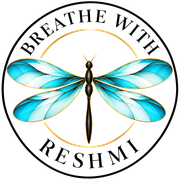
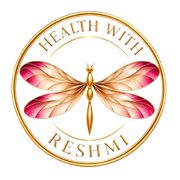
update sxitemap

diff --git a/frontend/src/components/ClientTransformationShowcase.jsx b/frontend/src/components/ClientTransformationShowcase.jsx
@@ -57,51 +57,38 @@ export default function ClientTransformationShowcase() {
   const audioTestimonials = [
     {
       id: 'voice-1',
-      condition: 'Gut Relief & Chronic Acidity',
+      condition: 'Acidity & Digestion Healing',
       file: '/assets/audio/client-voice-1.mp4',
-      quote: '"Reshmi mam ke guidance se meri 3 saal purani acidity aur digestion issue completely heal ho gaya."',
-
     },
     {
       id: 'voice-2',
-      condition: 'Thyroid, Energy & Sleep Quality',
+      condition: 'Sustainable Fat Loss Journey',
       file: '/assets/audio/client-voice-2.mp4',
-      quote: '"Afternoon exhaustion aur brain fog hat gaya. Main ab bina kisi caffeine ya medicines ke active rehti hu."',
-
     },
     {
       id: 'voice-3',
-      condition: 'Sustained Weight & Metabolic Reversal',
+      condition: 'Thyroid & Blood-Work Driven Nutrition',
       file: '/assets/audio/client-voice-3.mp4',
-      quote: '"Bina kisi crash diet ya starvation ke mera weight naturally reduce hua aur inch loss bhi bohot acha mila."',
-
     },
     {
       id: 'voice-4',
-      condition: 'Anxiety & Breathwork Recovery',
+      condition: 'Skin & Acne Transformation',
       file: '/assets/audio/client-voice-4.mp4',
-      quote: '"Oxygen Advantage breathing drills ne meri breathing pattern aur raat ki sleep ko 100% stable kar diya."',
-
     },
     {
       id: 'voice-5',
-
-      condition: 'Gut Relief & Bloating Reversal',
+      condition: 'Diabetes & Metabolic Recovery',
       file: '/assets/audio/client-voice-5.mp3',
-      quote: '"Bloating aur post-meal heaviness me remarkable improvement aaya within few weeks of protocol."',
-
     },
     {
       id: 'voice-8',
-      condition: 'Metabolic Vitality & Inch Loss',
+      condition: 'Weight Loss & Inch Loss Protocol',
       file: '/assets/audio/client-voice-8.mp3',
-      quote: '"Metabolism restore hua aur bina extreme restriction ke sustainable inch loss mila."',
     },
     {
       id: 'voice-9',
-      condition: 'Sleep Quality & Stress Modulation',
+      condition: 'Nutrition Consultation & Motivation',
       file: '/assets/audio/client-voice-9.mp3',
-      quote: '"Oxygen Advantage breathwork aur sleep hygiene se deep restful sleep wapas aayi."',
     }
   ];
 
@@ -326,11 +313,8 @@ export default function ClientTransformationShowcase() {
                             color: 'var(--emerald-deep)'
                           }}
                         >
-                          {item.clientName}
-                        </h4>
-                        <span style={{ fontSize: '0.8rem', color: '#008B82', fontWeight: 700 }}>
                           {item.condition}
-                        </span>
+                        </h4>
                       </div>
 
                       {/* Animated Sound Wave Indicator */}
@@ -358,20 +342,6 @@ export default function ClientTransformationShowcase() {
                       )}
                     </div>
 
-                    {/* Client Quote Snippet */}
-                    <p
-                      style={{
-                        fontSize: '0.88rem',
-                        color: 'var(--text-primary)',
-                        lineHeight: 1.55,
-                        margin: '0 0 18px',
-                        fontStyle: 'italic',
-                        flexGrow: 1
-                      }}
-                    >
-                      {item.quote}
-                    </p>
-
                     {/* Audio Controls Bar */}
                     <div
                       style={{
@@ -381,7 +351,8 @@ export default function ClientTransformationShowcase() {
                         background: '#FAF8F5',
                         padding: '10px 14px',
                         borderRadius: '14px',
-                        border: '1px solid var(--border-subtle)'
+                        border: '1px solid var(--border-subtle)',
+                        marginTop: 'auto'
                       }}
                     >
                       <button

diff --git a/frontend/src/pages/VideosPage.jsx b/frontend/src/pages/VideosPage.jsx
@@ -403,7 +403,7 @@ export default function VideosPage() {
               fontFamily: 'var(--font-serif)',
               fontWeight: 800
             }}>
-              Masterclasses (Full Sessions)
+              Full Sessions
             </h2>
 
             <div className="masterclasses-grid">
@@ -607,6 +607,51 @@ export default function VideosPage() {
                   </div>
                 </div>
               ))}
+
+              {/* YouTube Arrow — grid cell, appears in the empty space next to last short */}
+              <div style={{
+                display: 'flex',
+                alignItems: 'center',
+                justifyContent: 'center',
+              }}>
+                <a
+                  href="https://youtube.com/@healthwithreshmi?si=J_-3JErcDWbGw6gj"
+                  target="_blank"
+                  rel="noopener noreferrer"
+                  title="More Videos on YouTube"
+                  style={{
+                    display: 'inline-flex',
+                    alignItems: 'center',
+                    justifyContent: 'center',
+                    width: '64px',
+                    height: '64px',
+                    borderRadius: '50%',
+                    border: '3px solid #FF0000',
+                    background: '#FFFFFF',
+                    textDecoration: 'none',
+                    boxShadow: '0 4px 20px rgba(255, 0, 0, 0.20)',
+                    transition: 'transform 0.22s cubic-bezier(0.16,1,0.3,1), background 0.22s ease',
+                    flexShrink: 0
+                  }}
+                  onMouseEnter={e => {
+                    e.currentTarget.style.transform = 'scale(1.14)';
+                    e.currentTarget.style.background = '#FF0000';
+                    e.currentTarget.querySelector('svg').style.stroke = '#FFFFFF';
+                  }}
+                  onMouseLeave={e => {
+                    e.currentTarget.style.transform = 'scale(1)';
+                    e.currentTarget.style.background = '#FFFFFF';
+                    e.currentTarget.querySelector('svg').style.stroke = '#FF0000';
+                  }}
+                >
+                  <svg width="26" height="26" viewBox="0 0 24 24" fill="none"
+                    stroke="#FF0000" strokeWidth="2.5" strokeLinecap="round" strokeLinejoin="round"
+                    style={{ transition: 'stroke 0.22s ease' }}>
+                    <line x1="5" y1="12" x2="19" y2="12" />
+                    <polyline points="12 5 19 12 12 19" />
+                  </svg>
+                </a>
+              </div>
             </div>
           </div>
         )}

diff --git a/frontend/src/pages/AssessmentPage.jsx b/frontend/src/pages/AssessmentPage.jsx
@@ -278,19 +278,34 @@ export default function AssessmentPage() {
   const [answers, setAnswers] = useState({});
   const [results, setResults] = useState(null);
 
-  // Lead Info State
-  const [leadInfo, setLeadInfo] = useState(() => {
+  // Lead Info State — always starts as null so gate form is shown on every visit
+  const [leadInfo, setLeadInfo] = useState(null);
+
+  // Pre-Assessment Gate Form state — pre-fill from localStorage if available
+  const [leadName, setLeadName] = useState(() => {
+    if (user?.name) return user.name;
     try {
       const stored = localStorage.getItem('reshmi_assessment_lead') || localStorage.getItem('reshmi_user_lead');
-      if (stored) return JSON.parse(stored);
-    } catch (e) { }
-    return null;
+      if (stored) return JSON.parse(stored)?.name || '';
+    } catch (e) {}
+    return '';
   });
-
-  // Pre-Assessment Gate Form state
-  const [leadName, setLeadName] = useState(user?.name || '');
-  const [leadPhone, setLeadPhone] = useState(user?.phone || '');
-  const [leadEmail, setLeadEmail] = useState(user?.email || '');
+  const [leadPhone, setLeadPhone] = useState(() => {
+    if (user?.phone) return user.phone;
+    try {
+      const stored = localStorage.getItem('reshmi_assessment_lead') || localStorage.getItem('reshmi_user_lead');
+      if (stored) return JSON.parse(stored)?.phone || '';
+    } catch (e) {}
+    return '';
+  });
+  const [leadEmail, setLeadEmail] = useState(() => {
+    if (user?.email) return user.email;
+    try {
+      const stored = localStorage.getItem('reshmi_assessment_lead') || localStorage.getItem('reshmi_user_lead');
+      if (stored) return JSON.parse(stored)?.email || '';
+    } catch (e) {}
+    return '';
+  });
   const [leadError, setLeadError] = useState('');
   const [leadSaving, setLeadSaving] = useState(false);
 
@@ -1600,9 +1615,6 @@ ${websiteUrl}`;
                     <span>📥</span>
                     <span>Direct Download Scorecard</span>
                   </button>
-                  <span style={{ fontSize: '0.8rem', color: '#64748B' }}>
-                    Instant offline report file &bull; No print dialog
-                  </span>
                 </div>
               </div>
 

diff --git a/frontend/src/pages/AboutPage.jsx b/frontend/src/pages/AboutPage.jsx
@@ -69,11 +69,7 @@ export default function AboutPage() {
 
             <h1 style={{ lineHeight: 1.18, marginBottom: '24px', fontFamily: 'var(--font-serif)' }}>
               <span className="about-heading-line-1">
-                From Reading 100,000+ Blood Panels to
-              </span>
-              <span className="about-heading-line-2 text-gradient">
-                Reversing Chronic Health Roadblocks
-              </span>
+                Transforming Health Through a Root-Cause Approach              </span>
             </h1>
 
             <p style={{ fontSize: '1.18rem', color: 'var(--text-secondary)', lineHeight: 1.7, maxWidth: '780px', margin: '0 auto 32px' }}>
@@ -139,7 +135,7 @@ export default function AboutPage() {
             </div>
             <div style={{ transition: 'transform 0.3s ease' }}>
               <div style={{ fontSize: '2.5rem', fontWeight: 800, color: 'var(--emerald-medium)', fontFamily: 'var(--font-serif)' }}>
-                <AnimatedNumber value={38} suffix="Kg" />
+                <AnimatedNumber value={38} suffix="+Kg" />
               </div>
               <div style={{ fontSize: '0.88rem', color: 'var(--text-secondary)', fontWeight: 600, textTransform: 'uppercase', letterSpacing: '0.04em' }}>
                 Personal Transformation
@@ -196,7 +192,7 @@ export default function AboutPage() {
                 Her philosophy is simple: <strong style={{ fontStyle: 'normal' }}>Fitness is cheaper than illness.</strong> She empowers people to take charge of their health today, so they can live with greater vitality, confidence, and wellbeing tomorrow.
               </div>
 
-                          </div>
+            </div>
           </div>
 
           {/* 4 Credential Cards Spanning Full Width (Single Line Across Image & Content) */}

diff --git a/frontend/src/pages/ContactPage.jsx b/frontend/src/pages/ContactPage.jsx
@@ -157,6 +157,7 @@ export default function ContactPage() {
               </div>
 
 
+
               {/* Consultation Hours */}
               <div style={{ display: 'flex', gap: '16px', alignItems: 'flex-start' }}>
                 <div style={{
@@ -180,7 +181,7 @@ export default function ContactPage() {
                   <p style={{ margin: 0, fontSize: '0.92rem', color: 'var(--text-secondary)' }}>
                     <strong>Mon – Sat:</strong> 9:00 AM – 6:30 PM IST
                   </p>
-                  <p style={{ margin: '2px 0 0', fontSize: '0.8rem', color: 'var(--text-muted)' }}>Telehealth consultations conducted globally</p>
+                  <p style={{ margin: '2px 0 0', fontSize: '0.8rem', color: 'var(--text-muted)' }}>Health consultations conducted globally</p>
                 </div>
               </div>
             </div>
@@ -194,7 +195,7 @@ export default function ContactPage() {
               lineHeight: 1.55,
               border: '1px solid var(--border-subtle)'
             }}>
-              <strong style={{ color: 'var(--emerald-deep)', display: 'block', marginBottom: '4px' }}>Clinical Confidentiality Guarantee</strong>
+              <strong style={{ color: 'var(--emerald-deep)', display: 'block', marginBottom: '4px' }}>Confidentiality Guarantee</strong>
               All diagnostic records, symptoms, and health information shared with Reshmi Verma are strictly confidential and encrypted under medical ethics standards.
             </div>
           </div>

diff --git a/frontend/index.html b/frontend/index.html
@@ -15,9 +15,10 @@
     <link rel="preconnect" href="https://fonts.googleapis.com">
   <link rel="preconnect" href="https://fonts.gstatic.com" crossorigin>
   <link href="https://fonts.googleapis.com/css2?family=Alex+Brush&family=Allura&family=Newsreader:ital,opsz,wght@0,6..72,400;0,6..72,500;0,6..72,600;1,6..72,400;1,6..72,500&family=Playfair+Display:ital,wght@0,400;0,500;0,600;0,700;1,400&family=Plus+Jakarta+Sans:wght@300;400;500;600;700;800&display=swap" rel="stylesheet">
-  <link rel="icon" type="image/png" href="/favicon.png?v=3">
-  <link rel="shortcut icon" type="image/png" href="/favicon.png?v=3">
-  <link rel="apple-touch-icon" href="/favicon.png?v=3">
+  <link rel="icon" type="image/png" sizes="32x32" href="/favicon.png?v=4">
+  <link rel="icon" type="image/png" sizes="192x192" href="/favicon.png?v=4">
+  <link rel="shortcut icon" type="image/x-icon" href="/favicon.ico?v=4">
+  <link rel="apple-touch-icon" sizes="180x180" href="/apple-touch-icon.png?v=4">
 
   <!-- OpenGraph / Social Sharing Meta Tags (LinkedIn, Twitter, Facebook) -->
   <meta property="og:type" content="website">

diff --git a/frontend/src/components/Navbar.jsx b/frontend/src/components/Navbar.jsx
@@ -150,7 +150,7 @@ export default function Navbar() {
               >
                 <div className="dropdown-item-text">
                   <div className="dropdown-title-row">
-                    <span className="dropdown-item-title">Clinical Videos</span>
+                    <span className="dropdown-item-title">Videos</span>
                   </div>
                 </div>
               </Link>
